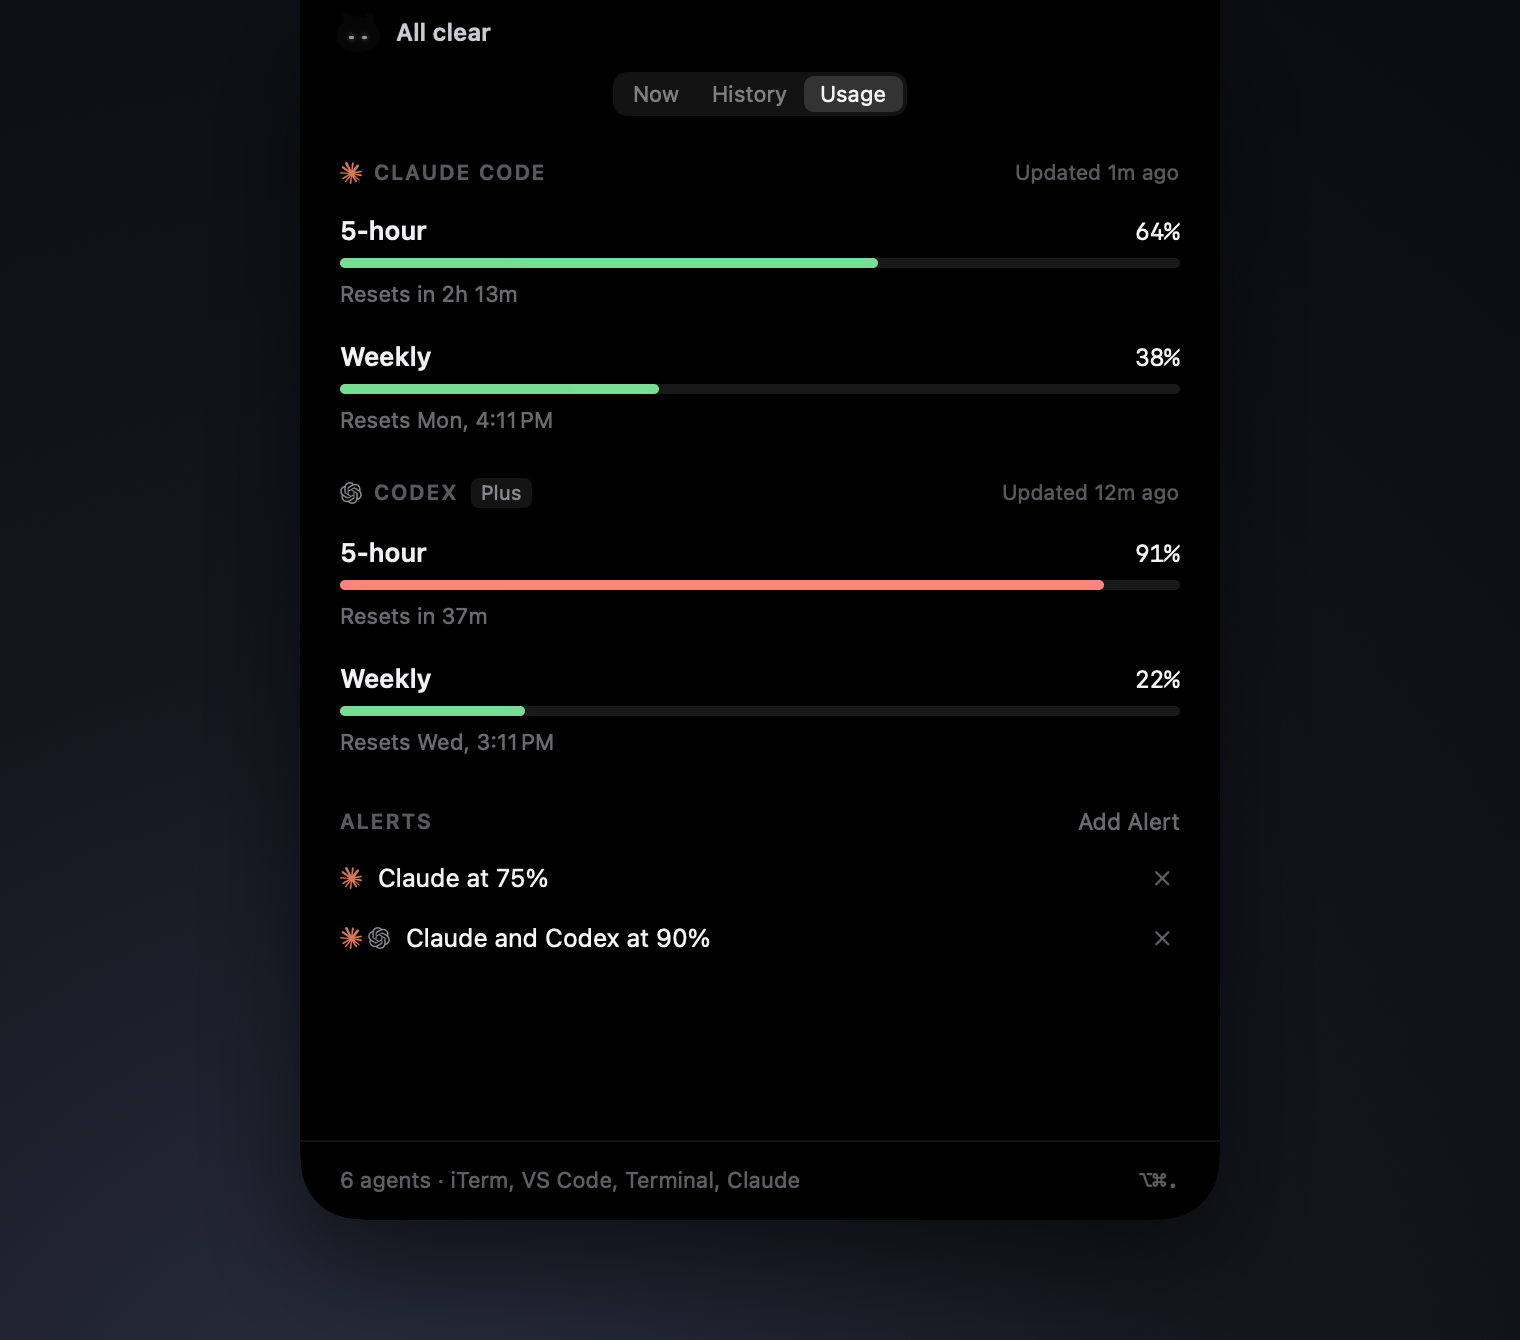
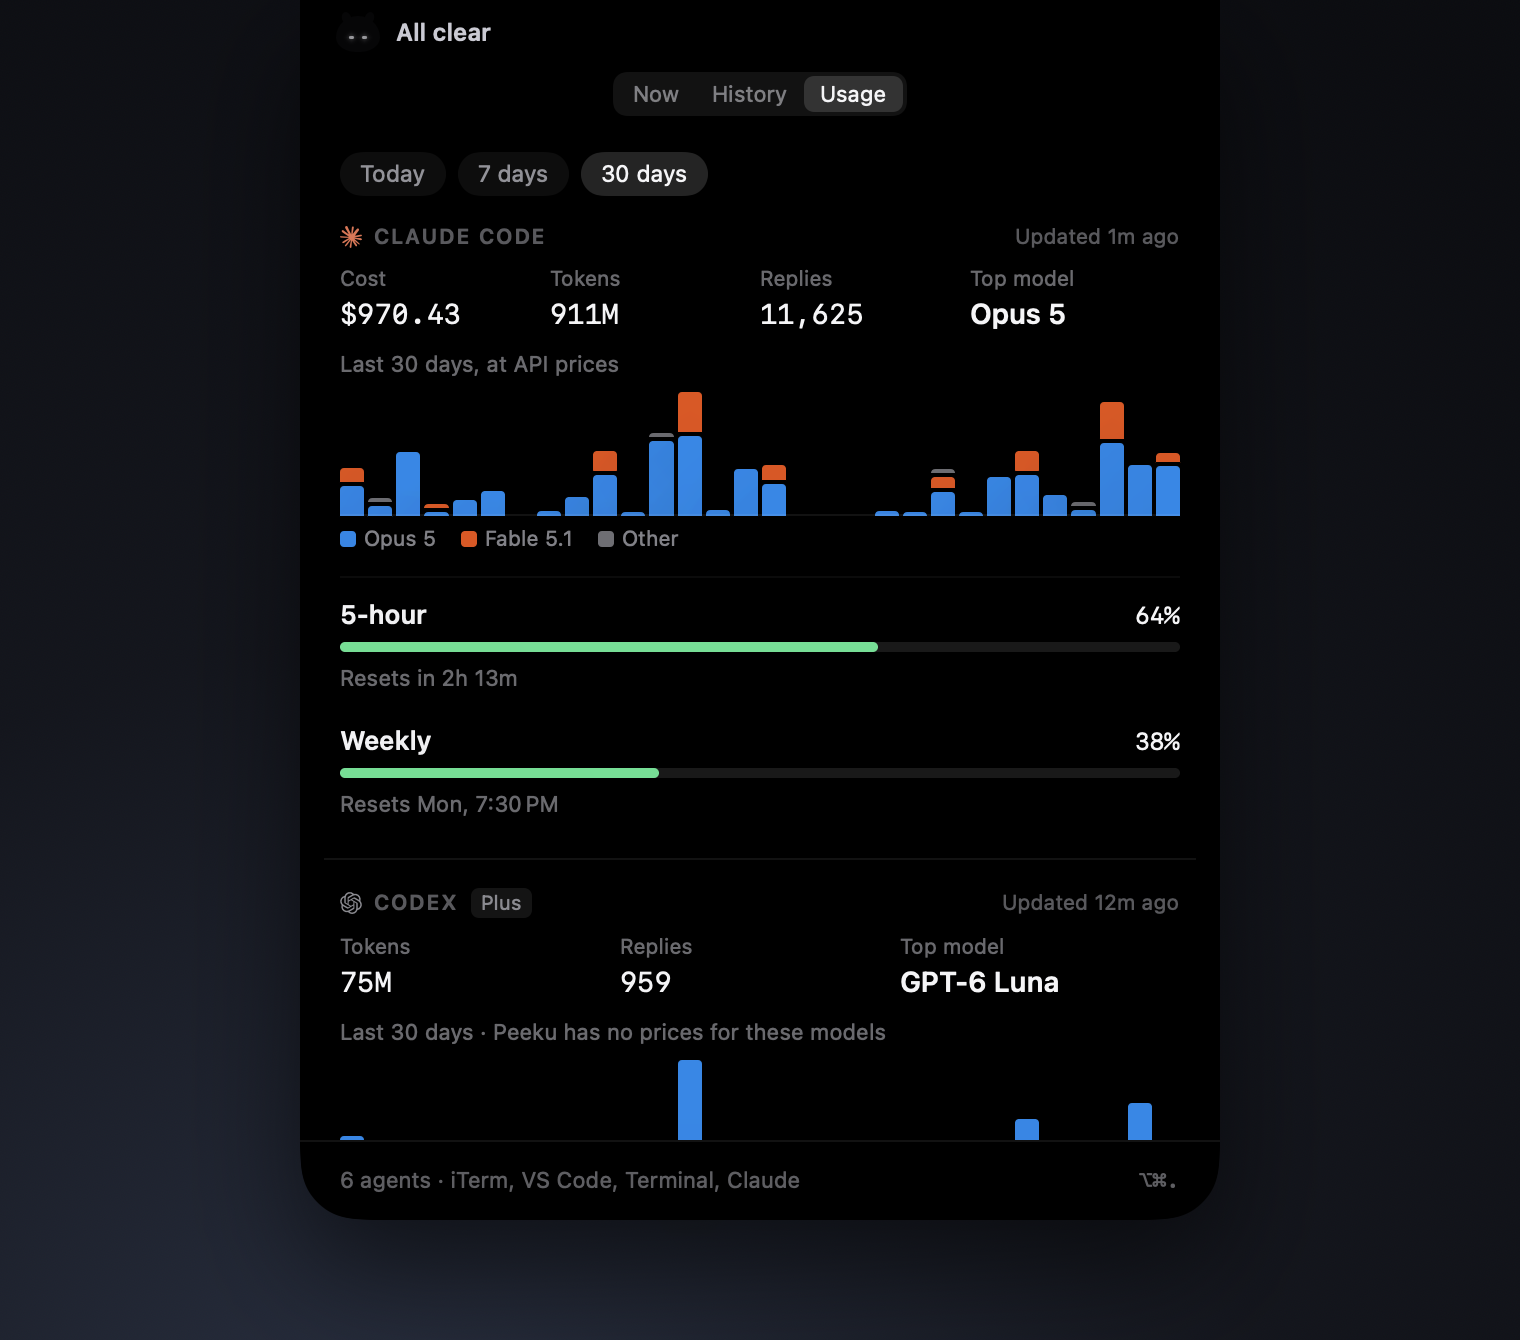
Update README screenshots for spend and session details
Snapshots now draw an overflowing scroll view like one scrolled to the top, instead of squeezing it, so the taller Usage tab renders from its header.

diff --git a/Sources/Peeku/Views/Components.swift b/Sources/Peeku/Views/Components.swift
@@ -159,7 +159,10 @@ struct SnapshotSafeScrollView<Content: View>: View {
 
     var body: some View {
         if peekuStill {
-            content.frame(maxHeight: .infinity, alignment: .top)
+            // Like a scroll view at its top: full height, pinned up, the rest clipped.
+            content.fixedSize(horizontal: false, vertical: true)
+                .frame(minHeight: 0, maxHeight: .infinity, alignment: .top)
+                .clipped()
         } else {
             ScrollView { content }.scrollIndicators(.never)
         }

diff --git a/Sources/Peeku/Debug/ReadmeImages.swift b/Sources/Peeku/Debug/ReadmeImages.swift
@@ -31,6 +31,7 @@ enum ReadmeImages {
         tabs.update(sessions: MockSessions.calm())
         tabs.history = MockSessions.history()
         tabs.usage = MockSessions.usage()
+        tabs.spend = MockSessions.spend()
         tabs.setUsageAlertRules([UsageAlertRule(scope: .claude, threshold: 75)] + UsageAlertRule.defaults)
         func manager(_ tab: ManagerTab) -> some View {
             tabs.managerTab = tab

diff --git a/README.md b/README.md
@@ -56,7 +56,7 @@ On an external display or older MacBook, Peeku hides while idle and slides down 
 ### Every session, and what happened today
 
 <p align="center">
-  <img src="docs/images/manager.png" width="49%" alt="The session manager: three sessions that need you with their commands and questions, two working, one finished">
+  <img src="docs/images/manager.png" width="49%" alt="The session manager: three sessions that need you with their commands and questions, two working, one finished; under each, its branch, model, cost so far and how full its context is, auth-service at 93% in red">
   <img src="docs/images/history.png" width="49%" alt="History: today's permission requests with how long they took to answer, a finished run, a cleared error and a new task">
 </p>
 
@@ -64,7 +64,7 @@ On an external display or older MacBook, Peeku hides while idle and slides down 
 
 Peeku asks Claude Code and Codex for your limits every few minutes, with no setup. Above each agent's limits, it adds up their session logs for **Today**, **7 days** or **30 days**: the cost at API prices, tokens (cache reads included), replies, the top model, and a bar per hour (today) or day, split by model. Hover a bar for its numbers. On a subscription, the dollars are what the same tokens would cost on the API, not what you pay. Add alerts (50–95% or a custom value) for Claude, Codex or both; each fires once per threshold until the limit resets.
 
-<p align="center"><img src="docs/images/usage.png" width="49%" alt="The Usage tab: Claude Code at 64% of its 5-hour limit, resetting in 2h 13m, and 38% of its weekly limit; Codex on the Plus plan at 91% of its 5-hour limit in red, resetting in 37m, and 22% of its weekly limit; below them, two alerts: Claude at 75%, and Claude and Codex at 90%"></p>
+<p align="center"><img src="docs/images/usage.png" width="49%" alt="The Usage tab set to 30 days: Claude Code cost $970.43, 911M tokens, 11,625 replies, top model Opus 5, with a bar per day split into Opus 5, Fable 5.1 and other models; then its 5-hour limit at 64% and weekly limit at 38%; below, Codex on the Plus plan with 75M tokens, 959 replies and GPT-6 Luna as top model"></p>
 
 <p align="center"><img src="docs/images/usage-alert.png" width="760" alt="A usage alert in the notch: Claude reached your usage alert, 5-hour limit, 92% used, alert at 90%, and when it resets, with Show Usage and Later buttons"></p>
 
@@ -128,7 +128,7 @@ Your settings files are backed up before any change.
 
 **Settings** covers appearance, login, updates, sounds per state, usage alerts, showing costs, which apps to watch, hooks and permissions.
 
-<p align="center"><img src="docs/images/settings.png" width="360" alt="Peeku's settings: appearance, open at login, update checks, notification options, staying quiet for the session in front, usage alerts, a sound for each state, Quiet, which apps to watch, Claude Code hooks and permissions"></p>
+<p align="center"><img src="docs/images/settings.png" width="360" alt="Peeku's settings: appearance, open at login, update checks, notification options, staying quiet for the session in front, usage alerts, showing costs, a sound for each state, Quiet, which apps to watch, Claude Code hooks and permissions"></p>
 
 ## Updates and uninstall
 
